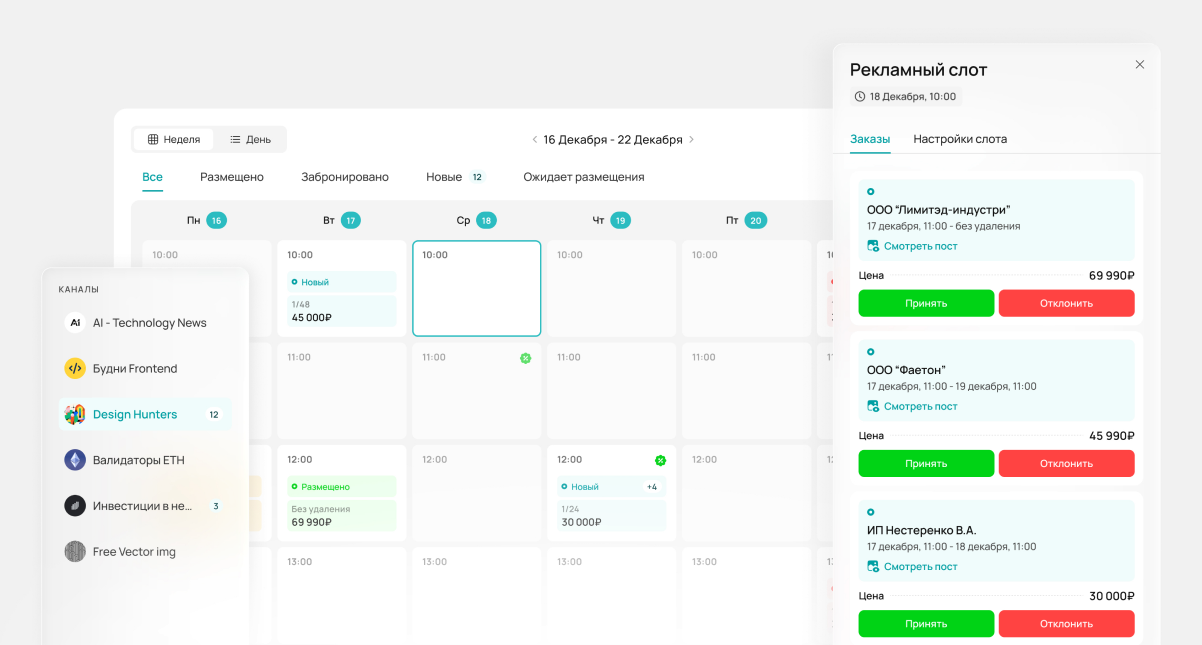
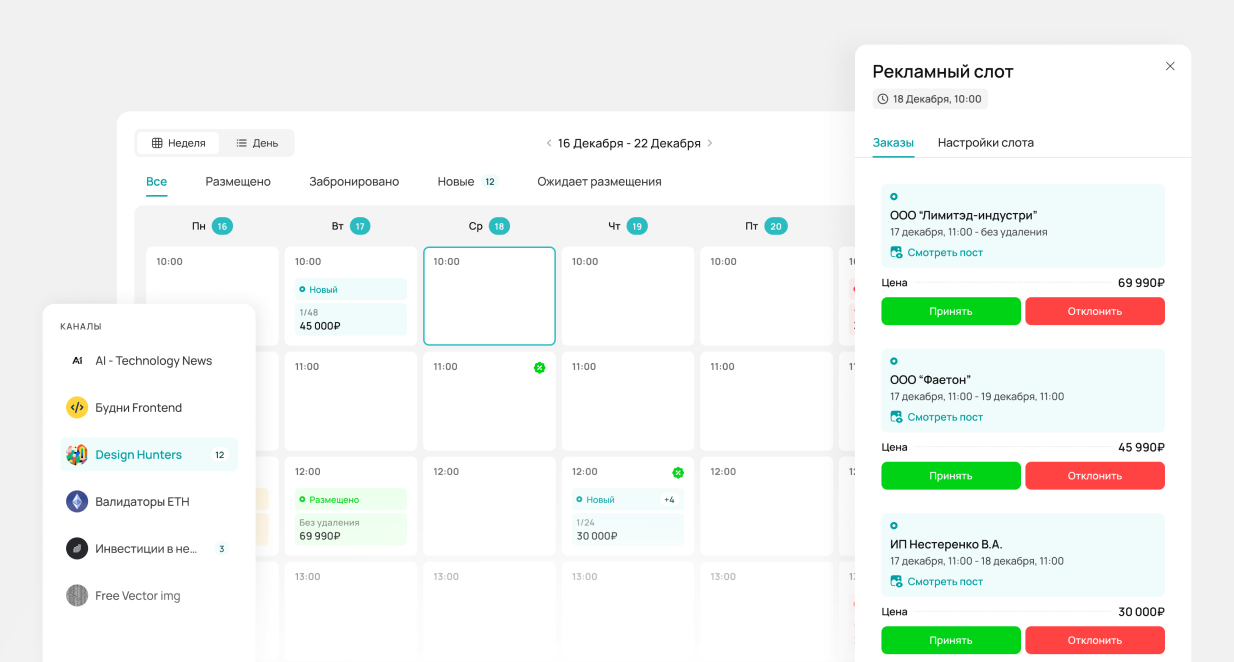
Case demo-calendar: refresh inner image from Figma node 497:11095

diff --git a/case.html b/case.html
@@ -334,10 +334,10 @@
           <div class="case-demo-calendar-inner">
             <img
               class="case-demo-calendar-img"
-              src="/case-demo/demo-calendar.png"
+              src="/case-demo/demo-calendar.png?v=20260512-2"
               alt="Интерфейс календаря в продукте"
-              width="1202"
-              height="645"
+              width="1234"
+              height="662"
               loading="lazy"
               decoding="async"
             />

diff --git a/styles.css b/styles.css
@@ -863,8 +863,8 @@ body {
   left: 50%;
   bottom: 0;
   transform: translateX(-50%);
-  width: min(1202px, 100%);
-  height: 645px;
+  width: min(1234px, 100%);
+  height: 662px;
   line-height: 0;
 }
 
